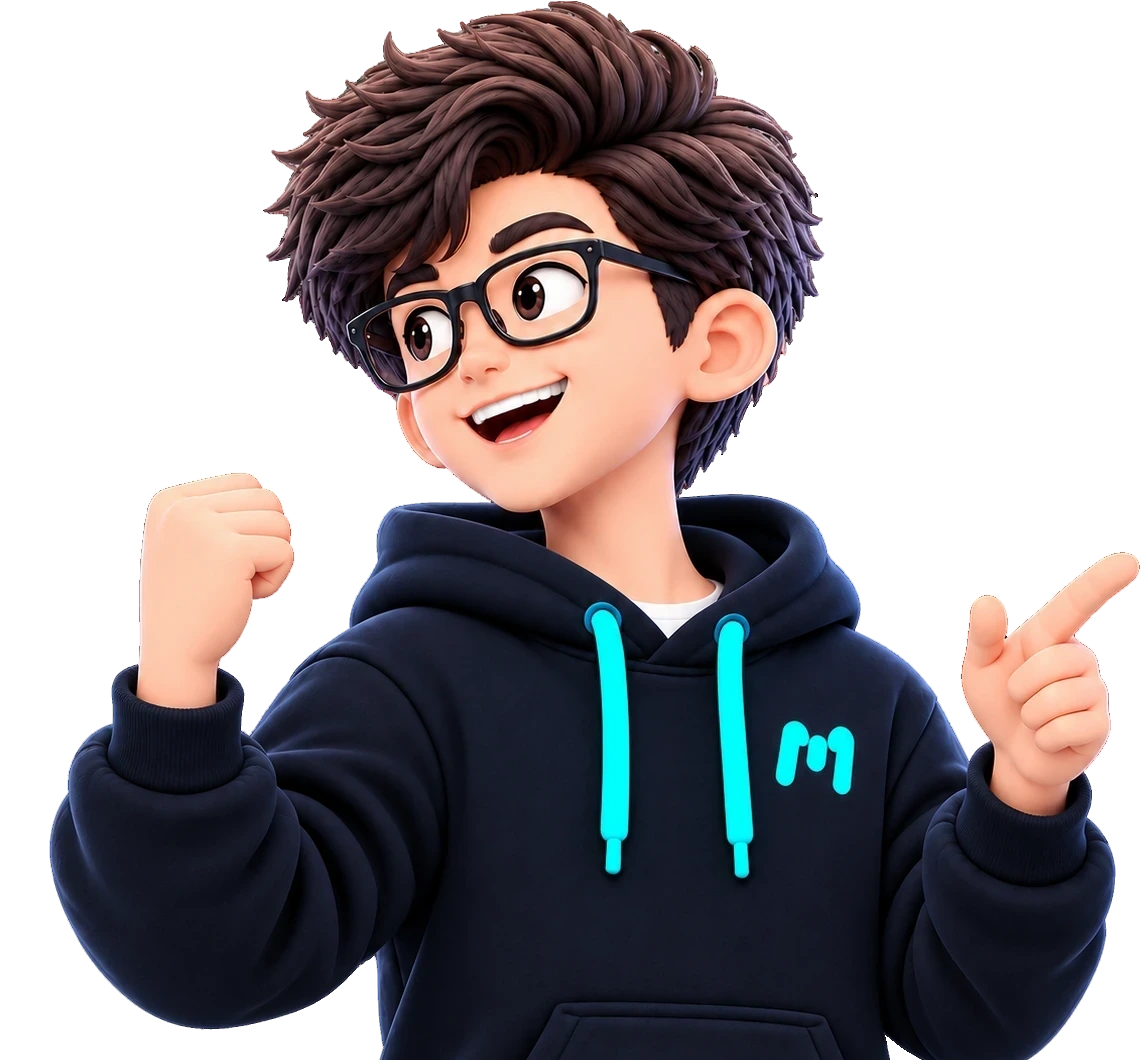
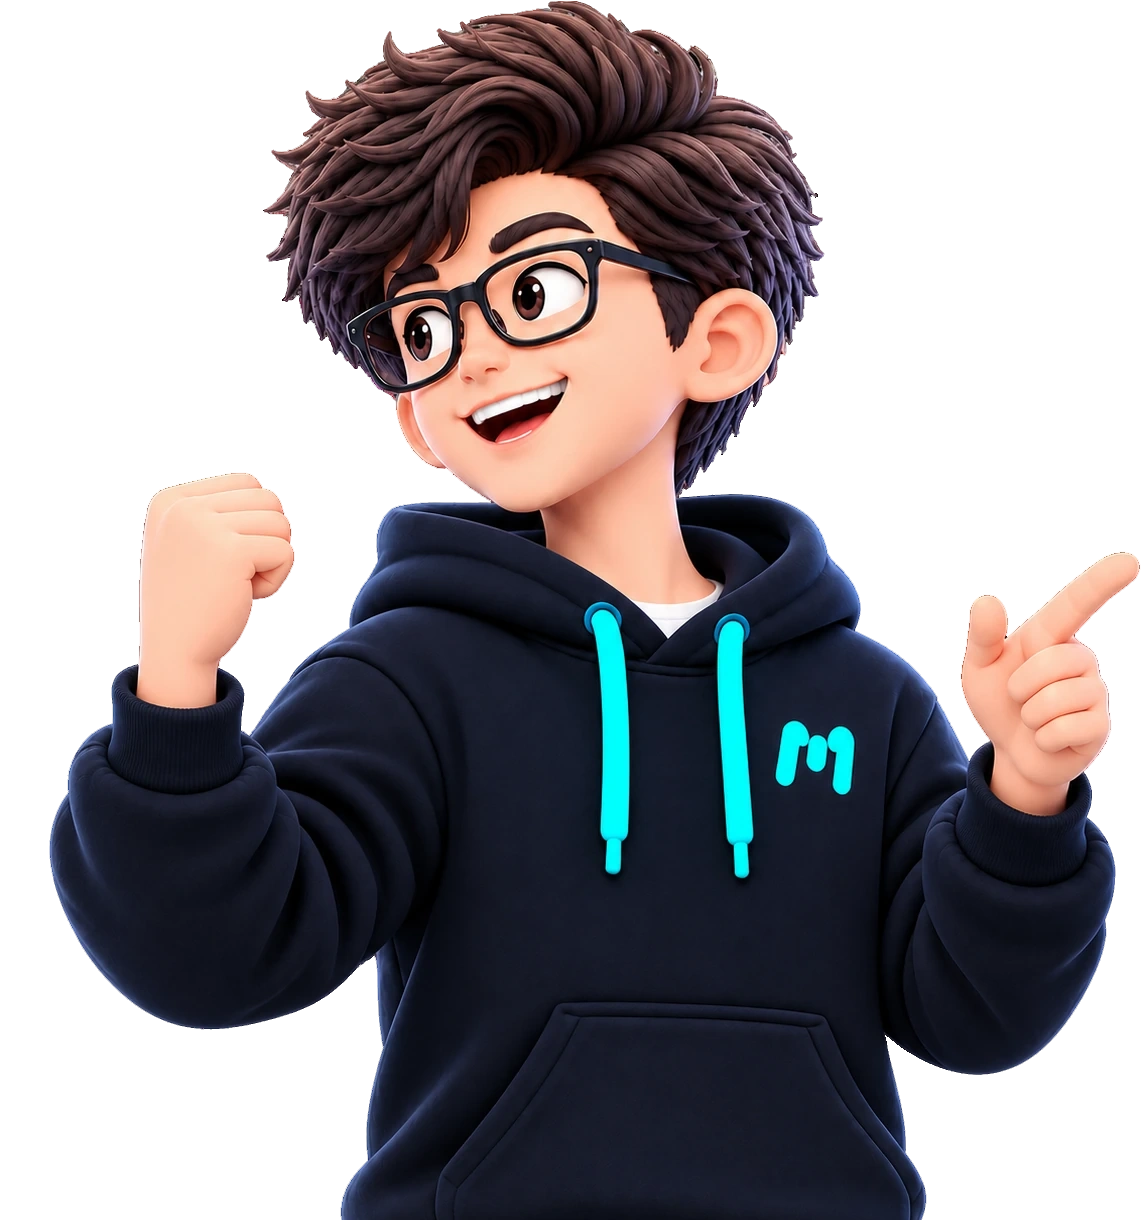
fix(home): restore full jacket with pocket and hem while cleanly hiding pants

diff --git a/apps/web/src/app/(public)/HomeClient.tsx b/apps/web/src/app/(public)/HomeClient.tsx
@@ -1380,26 +1380,26 @@ export function HomeClient({
               </div>
             </div>
 
-            {/* Right Hero Image (Desktop: Lowered downwards so card border cleanly clips pants, showing only jacket) */}
-            <div className="hidden md:block absolute right-6 lg:right-12 xl:right-16 -bottom-12 lg:-bottom-16 xl:-bottom-20 pointer-events-none select-none z-10">
+            {/* Right Hero Image (Desktop: Sitting cleanly at bottom of card with full jacket visible and zero pants) */}
+            <div className="hidden md:block absolute right-6 lg:right-12 xl:right-16 bottom-0 pointer-events-none select-none z-10">
               <Image
                 src="/hero-card-1.webp"
                 alt="Ready to Scale Infrastructure - Masdika"
                 width={1145}
-                height={1060}
+                height={1220}
                 className="w-[280px] lg:w-[330px] xl:w-[370px] h-auto object-contain object-bottom drop-shadow-[0_10px_20px_rgba(0,0,0,0.08)] dark:drop-shadow-[0_12px_24px_rgba(0,0,0,0.4)]"
                 priority={false}
               />
             </div>
 
-            {/* Mobile Hero (Centered at bottom, framed identical to desktop so pants are completely hidden) */}
+            {/* Mobile Hero (Centered at bottom, sitting on card border with full jacket visible and zero pants) */}
             <div className="block md:hidden mt-6 -mb-6 sm:-mb-8 flex justify-center pointer-events-none select-none">
               <Image
                 src="/hero-card-1.webp"
                 alt="Ready to Scale Infrastructure - Masdika"
                 width={1145}
-                height={1060}
-                className="w-52 sm:w-60 h-auto object-contain object-bottom translate-y-7 sm:translate-y-9 drop-shadow-[0_10px_20px_rgba(0,0,0,0.08)] dark:drop-shadow-[0_12px_24px_rgba(0,0,0,0.4)]"
+                height={1220}
+                className="w-52 sm:w-60 h-auto object-contain object-bottom drop-shadow-[0_10px_20px_rgba(0,0,0,0.08)] dark:drop-shadow-[0_12px_24px_rgba(0,0,0,0.4)]"
                 priority={false}
               />
             </div>
